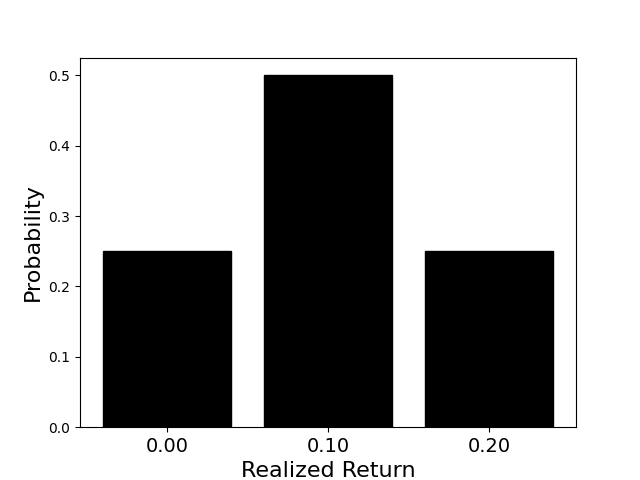
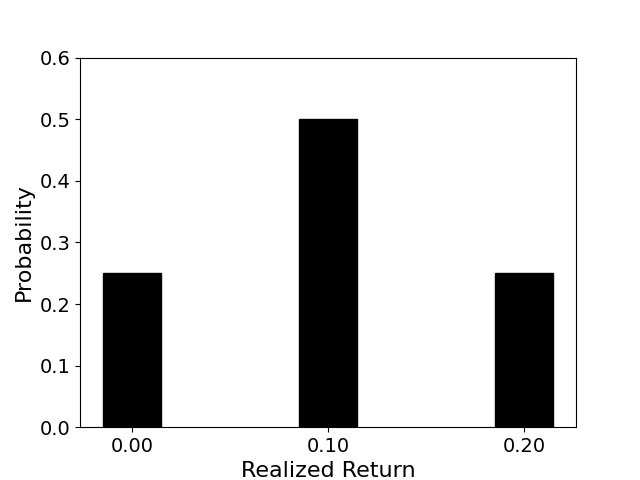
Updates

diff --git a/CH9-binomial dist4.py b/CH9-binomial dist4.py
@@ -1,0 +1,27 @@
+import matplotlib.pyplot as plt
+import numpy as np
+from scipy.stats import binom
+
+# Parameters
+n = 2  # number of trials
+p = 0.5  # probability of success
+
+# Generate binomial probabilities
+x = range(n + 1)  # possible outcomes: 0 to n successes
+probabilities = binom.pmf(x, n, p)
+
+scaled_labels = [f"{i / n * 0.2:.2f}" for i in x]
+yticks = np.arange(0, max(probabilities) + 0.1, 0.1)
+
+# Plot
+plt.bar(x, probabilities, color="black", edgecolor="black", width=0.30)
+# plt.title(f"Binomial Distribution (n={n}, p={p})")
+plt.xlabel("Realized Return", fontsize=16)
+plt.ylabel("Probability", fontsize=16)
+plt.xticks(x, scaled_labels, fontsize=14)
+plt.yticks(yticks, fontsize=14)
+# plt.grid(axis='y', linestyle='--', alpha=0.7)
+
+# Display the plot
+plt.savefig("plots/CH9-binomial dist4.png")
+plt.show()
